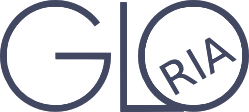
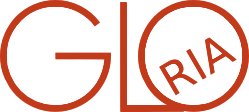
Change colors

Changed region(s): [[0.4779, 0.0, 1.0, 1.0], [0.0, 0.0, 0.4498, 1.0], [0.6185, 0.5089, 0.8153, 0.8571]]

diff --git a/css/freelancer.min.css b/css/freelancer.min.css
@@ -2,4 +2,4 @@
  * Start Bootstrap - Freelancer v3.3.7+1 (http://startbootstrap.com/template-overviews/freelancer)
  * Copyright 2013-2017 Start Bootstrap
  * Licensed under MIT (https://github.com/BlackrockDigital/startbootstrap/blob/gh-pages/LICENSE)
- */body{font-family:Lato,'Helvetica Neue',Helvetica,Arial,sans-serif;overflow-x:hidden}body,html{height:100%}.parallax{background-image:url(/img/about_glo.jpg);height:40%;background-attachment:fixed;background-position:center;background-repeat:no-repeat;background-size:cover}.about_me{position:relative;left:0;top:30%;width:100%;text-align:center}p{font-size:20px}p.small{font-size:16px}a,a.active,a:active,a:focus,a:hover{color:#d9984a}h1,h2,h3,h4,h5,h6{font-family:Montserrat,"Helvetica Neue",Helvetica,Arial,sans-serif;text-transform:uppercase;font-weight:700}hr.star-light,hr.star-primary{padding:0;border:none;border-top:solid 5px;text-align:center;max-width:250px;margin:25px auto 30px}hr.star-light:after,hr.star-primary:after{content:"\f005";font-family:FontAwesome;display:inline-block;position:relative;top:-.8em;font-size:2em;padding:0 .25em}hr.star-light{border-color:#fff}hr.star-light:after{background-color:#d9984a;color:#fff}hr.star-primary{border-color:#424862}hr.star-primary:after{background-color:#fff;color:#424862}.img-centered{margin:0 auto}header{text-align:center;background:#d9984a;color:#fff}header .container{padding-top:100px;padding-bottom:50px}header img{display:block;margin:0 auto 20px}header .intro-text .name{display:block;font-family:Montserrat,"Helvetica Neue",Helvetica,Arial,sans-serif;text-transform:uppercase;font-weight:700;font-size:2em}header .intro-text .skills{font-size:1.25em;font-weight:300}@media (min-width:768px){header .container{padding-top:200px;padding-bottom:100px}header .intro-text .name{font-size:4.75em}header .intro-text .skills{font-size:1.75em}}.navbar-custom{background:#424862;font-family:Montserrat,"Helvetica Neue",Helvetica,Arial,sans-serif;text-transform:uppercase;font-weight:700;border:none}.navbar-custom .navbar-brand{color:#fff}.navbar-custom .navbar-brand.active,.navbar-custom .navbar-brand:active,.navbar-custom .navbar-brand:focus,.navbar-custom .navbar-brand:hover{color:#fff}.navbar-custom .navbar-brand img{height:130%}.navbar-custom .navbar-nav{letter-spacing:1px}.navbar-custom .navbar-nav li a{color:#fff}.navbar-custom .navbar-nav li a:hover{color:#d9984a}.navbar-custom .navbar-nav li a:active,.navbar-custom .navbar-nav li a:focus{color:#fff}.navbar-custom .navbar-nav li.active a{color:#fff;background:#d9984a}.navbar-custom .navbar-nav li.active a:active,.navbar-custom .navbar-nav li.active a:focus,.navbar-custom .navbar-nav li.active a:hover{color:#fff;background:#d9984a}.navbar-custom .navbar-toggle{color:#fff;text-transform:uppercase;font-size:10px;border-color:#fff}.navbar-custom .navbar-toggle:focus,.navbar-custom .navbar-toggle:hover{background-color:#d9984a;color:#fff;border-color:#d9984a}@media (min-width:768px){.navbar-custom{padding:25px 0;-webkit-transition:padding .3s;-moz-transition:padding .3s;transition:padding .3s}.navbar-custom .navbar-brand{font-size:2em;-webkit-transition:all .3s;-moz-transition:all .3s;transition:all .3s}.navbar-custom.affix{padding:10px 0}.navbar-custom.affix .navbar-brand{font-size:1.5em}}section{padding:100px 0}section h2{margin:0;font-size:3em}section.success{background:#d9984a;color:#fff}@media (max-width:767px){section{padding:75px 0}section.first{padding-top:75px}}#portfolio .portfolio-item{margin:0 0 15px;right:0}#portfolio .portfolio-item .portfolio-link{display:block;position:relative;max-width:400px;margin:0 auto}#portfolio .portfolio-item .portfolio-link .caption{background:rgba(217,152,74,.9);position:absolute;width:100%;height:100%;opacity:0;transition:all ease .5s;-webkit-transition:all ease .5s;-moz-transition:all ease .5s}#portfolio .portfolio-item .portfolio-link .caption:hover{opacity:1}#portfolio .portfolio-item .portfolio-link .caption .caption-content{position:absolute;width:100%;height:20px;font-size:20px;text-align:center;top:50%;margin-top:-12px;color:#fff}#portfolio .portfolio-item .portfolio-link .caption .caption-content i{margin-top:-12px}#portfolio .portfolio-item .portfolio-link .caption .caption-content h3,#portfolio .portfolio-item .portfolio-link .caption .caption-content h4{margin:0}#portfolio *{z-index:2}@media (min-width:767px){#portfolio .portfolio-item{margin:0 0 30px}}.floating-label-form-group{position:relative;margin-bottom:0;padding-bottom:.5em;border-bottom:1px solid #eee}.floating-label-form-group input,.floating-label-form-group textarea{z-index:1;position:relative;padding-right:0;padding-left:0;border:none;border-radius:0;font-size:1.5em;background:0 0;box-shadow:none!important;resize:none}.floating-label-form-group label{display:block;z-index:0;position:relative;top:2em;margin:0;font-size:.85em;line-height:1.764705882em;vertical-align:middle;vertical-align:baseline;opacity:0;-webkit-transition:top .3s ease,opacity .3s ease;-moz-transition:top .3s ease,opacity .3s ease;-ms-transition:top .3s ease,opacity .3s ease;transition:top .3s ease,opacity .3s ease}.floating-label-form-group:not(:first-child){padding-left:14px;border-left:1px solid #eee}.floating-label-form-group-with-value label{top:0;opacity:1}.floating-label-form-group-with-focus label{color:#d9984a}form .row:first-child .floating-label-form-group{border-top:1px solid #eee}footer{color:#fff}footer h3{margin-bottom:30px}footer .footer-above{padding-top:50px;background-color:#424862}footer .footer-col{margin-bottom:50px}footer .footer-below{padding:25px 0;background-color:#383d53}.btn-outline{color:#fff;font-size:20px;border:solid 2px #fff;background:0 0;transition:all .3s ease-in-out;margin-top:15px}.btn-outline.active,.btn-outline:active,.btn-outline:focus,.btn-outline:hover{color:#d9984a;background:#fff;border:solid 2px #fff}.btn-primary{color:#fff;background-color:#424862;border-color:#424862;font-weight:700}.btn-primary.active,.btn-primary:active,.btn-primary:focus,.btn-primary:hover,.open .dropdown-toggle.btn-primary{color:#fff;background-color:#2d3244;border-color:#292d3d}.btn-primary.active,.btn-primary:active,.open .dropdown-toggle.btn-primary{background-image:none}.btn-primary.disabled,.btn-primary.disabled.active,.btn-primary.disabled:active,.btn-primary.disabled:focus,.btn-primary.disabled:hover,.btn-primary[disabled],.btn-primary[disabled].active,.btn-primary[disabled]:active,.btn-primary[disabled]:focus,.btn-primary[disabled]:hover,fieldset[disabled] .btn-primary,fieldset[disabled] .btn-primary.active,fieldset[disabled] .btn-primary:active,fieldset[disabled] .btn-primary:focus,fieldset[disabled] .btn-primary:hover{background-color:#424862;border-color:#424862}.btn-primary .badge{color:#424862;background-color:#fff}.btn-success{color:#fff;background-color:#d9984a;border-color:#d9984a;font-weight:700}.btn-success.active,.btn-success:active,.btn-success:focus,.btn-success:hover,.open .dropdown-toggle.btn-success{color:#fff;background-color:#c67f2a;border-color:#be7a28}.btn-success.active,.btn-success:active,.open .dropdown-toggle.btn-success{background-image:none}.btn-success.disabled,.btn-success.disabled.active,.btn-success.disabled:active,.btn-success.disabled:focus,.btn-success.disabled:hover,.btn-success[disabled],.btn-success[disabled].active,.btn-success[disabled]:active,.btn-success[disabled]:focus,.btn-success[disabled]:hover,fieldset[disabled] .btn-success,fieldset[disabled] .btn-success.active,fieldset[disabled] .btn-success:active,fieldset[disabled] .btn-success:focus,fieldset[disabled] .btn-success:hover{background-color:#d9984a;border-color:#d9984a}.btn-success .badge{color:#d9984a;background-color:#fff}.btn-social{display:inline-block;height:50px;width:50px;border:2px solid #fff;border-radius:100%;text-align:center;font-size:20px;line-height:45px}.scroll-top{position:fixed;right:2%;bottom:2%;width:50px;height:50px;z-index:1049}.scroll-top .btn{font-size:20px;width:50px;height:50px;border-radius:100%;line-height:28px}.portfolio-modal .modal-content{border-radius:0;background-clip:border-box;-webkit-box-shadow:none;box-shadow:none;border:none;min-height:100%;padding:100px 0;text-align:center}.portfolio-modal .modal-content h2{margin:0;font-size:3em}.portfolio-modal .modal-content img{margin-bottom:30px}.portfolio-modal .modal-content .item-details{text-align:left;margin:30px 0;font-size:16px}.portfolio-modal .close-modal{position:absolute;width:75px;height:75px;background-color:transparent;top:25px;right:25px;cursor:pointer}.portfolio-modal .close-modal:hover{opacity:.3}.portfolio-modal .close-modal .lr{height:75px;width:1px;margin-left:35px;background-color:#424862;transform:rotate(45deg);-ms-transform:rotate(45deg);-webkit-transform:rotate(45deg);z-index:1051}.portfolio-modal .close-modal .lr .rl{height:75px;width:1px;background-color:#424862;transform:rotate(90deg);-ms-transform:rotate(90deg);-webkit-transform:rotate(90deg);z-index:1052}.portfolio-modal .modal-backdrop{opacity:0;display:none}#skipnav a{padding:6px;position:absolute;top:-40px;left:0;color:#fff;border-right:1px solid #fff;border-bottom:1px solid #fff;border-bottom-right-radius:8px;background:0 0;transition:top 1s ease-out,background 1s linear;z-index:2000}#skipnav a:focus{position:absolute;left:0;top:0;background:#d9984a;outline:0;transition:top .1s ease-in,background .5s linear}div#maincontent{outline:0;padding-top:150px;padding-bottom:60px}
+ */body{font-family:Lato,'Helvetica Neue',Helvetica,Arial,sans-serif;overflow-x:hidden}body,html{height:100%}.parallax{background-image:url(/img/about_glo.jpg);height:40%;background-attachment:fixed;background-position:center;background-repeat:no-repeat;background-size:cover}.about_me{position:relative;left:0;top:30%;width:100%;text-align:center}p{font-size:20px}p.small{font-size:16px}a,a.active,a:active,a:focus,a:hover{color:#c5baac}h1,h2,h3,h4,h5,h6{font-family:Montserrat,"Helvetica Neue",Helvetica,Arial,sans-serif;text-transform:uppercase;font-weight:700}hr.star-light,hr.star-primary{padding:0;border:none;border-top:solid 5px;text-align:center;max-width:250px;margin:25px auto 30px}hr.star-light:after,hr.star-primary:after{content:"\f005";font-family:FontAwesome;display:inline-block;position:relative;top:-.8em;font-size:2em;padding:0 .25em}hr.star-light{border-color:#fff}hr.star-light:after{background-color:#c5baac;color:#fff}hr.star-primary{border-color:#c33a1a}hr.star-primary:after{background-color:#fff;color:#c33a1a}.img-centered{margin:0 auto}header{text-align:center;background:#c5baac;color:#fff}header .container{padding-top:100px;padding-bottom:50px}header img{display:block;margin:0 auto 20px}header .intro-text .name{display:block;font-family:Montserrat,"Helvetica Neue",Helvetica,Arial,sans-serif;text-transform:uppercase;font-weight:700;font-size:2em}header .intro-text .skills{font-size:1.25em;font-weight:300}@media (min-width:768px){header .container{padding-top:200px;padding-bottom:100px}header .intro-text .name{font-size:4.75em}header .intro-text .skills{font-size:1.75em}}.navbar-custom{background:#c33a1a;font-family:Montserrat,"Helvetica Neue",Helvetica,Arial,sans-serif;text-transform:uppercase;font-weight:700;border:none}.navbar-custom .navbar-brand{color:#fff}.navbar-custom .navbar-brand.active,.navbar-custom .navbar-brand:active,.navbar-custom .navbar-brand:focus,.navbar-custom .navbar-brand:hover{color:#fff}.navbar-custom .navbar-brand img{height:130%}.navbar-custom .navbar-nav{letter-spacing:1px}.navbar-custom .navbar-nav li a{color:#fff}.navbar-custom .navbar-nav li a:hover{color:#c5baac}.navbar-custom .navbar-nav li a:active,.navbar-custom .navbar-nav li a:focus{color:#fff}.navbar-custom .navbar-nav li.active a{color:#fff;background:#c5baac}.navbar-custom .navbar-nav li.active a:active,.navbar-custom .navbar-nav li.active a:focus,.navbar-custom .navbar-nav li.active a:hover{color:#fff;background:#c5baac}.navbar-custom .navbar-toggle{color:#fff;text-transform:uppercase;font-size:10px;border-color:#fff}.navbar-custom .navbar-toggle:focus,.navbar-custom .navbar-toggle:hover{background-color:#c5baac;color:#fff;border-color:#c5baac}@media (min-width:768px){.navbar-custom{padding:25px 0;-webkit-transition:padding .3s;-moz-transition:padding .3s;transition:padding .3s}.navbar-custom .navbar-brand{font-size:2em;-webkit-transition:all .3s;-moz-transition:all .3s;transition:all .3s}.navbar-custom.affix{padding:10px 0}.navbar-custom.affix .navbar-brand{font-size:1.5em}}section{padding:100px 0}section h2{margin:0;font-size:3em}section.success{background:#c5baac;color:#fff}@media (max-width:767px){section{padding:75px 0}section.first{padding-top:75px}}#portfolio .portfolio-item{margin:0 0 15px;right:0}#portfolio .portfolio-item .portfolio-link{display:block;position:relative;max-width:400px;margin:0 auto}#portfolio .portfolio-item .portfolio-link .caption{background:rgba(197,186,172,.9);position:absolute;width:100%;height:100%;opacity:0;transition:all ease .5s;-webkit-transition:all ease .5s;-moz-transition:all ease .5s}#portfolio .portfolio-item .portfolio-link .caption:hover{opacity:1}#portfolio .portfolio-item .portfolio-link .caption .caption-content{position:absolute;width:100%;height:20px;font-size:20px;text-align:center;top:50%;margin-top:-12px;color:#fff}#portfolio .portfolio-item .portfolio-link .caption .caption-content i{margin-top:-12px}#portfolio .portfolio-item .portfolio-link .caption .caption-content h3,#portfolio .portfolio-item .portfolio-link .caption .caption-content h4{margin:0}#portfolio *{z-index:2}@media (min-width:767px){#portfolio .portfolio-item{margin:0 0 30px}}.floating-label-form-group{position:relative;margin-bottom:0;padding-bottom:.5em;border-bottom:1px solid #eee}.floating-label-form-group input,.floating-label-form-group textarea{z-index:1;position:relative;padding-right:0;padding-left:0;border:none;border-radius:0;font-size:1.5em;background:0 0;box-shadow:none!important;resize:none}.floating-label-form-group label{display:block;z-index:0;position:relative;top:2em;margin:0;font-size:.85em;line-height:1.764705882em;vertical-align:middle;vertical-align:baseline;opacity:0;-webkit-transition:top .3s ease,opacity .3s ease;-moz-transition:top .3s ease,opacity .3s ease;-ms-transition:top .3s ease,opacity .3s ease;transition:top .3s ease,opacity .3s ease}.floating-label-form-group:not(:first-child){padding-left:14px;border-left:1px solid #eee}.floating-label-form-group-with-value label{top:0;opacity:1}.floating-label-form-group-with-focus label{color:#c5baac}form .row:first-child .floating-label-form-group{border-top:1px solid #eee}footer{color:#fff}footer h3{margin-bottom:30px}footer .footer-above{padding-top:50px;background-color:#c33a1a}footer .footer-col{margin-bottom:50px}footer .footer-below{padding:25px 0;background-color:#ac3317}.btn-outline{color:#fff;font-size:20px;border:solid 2px #fff;background:0 0;transition:all .3s ease-in-out;margin-top:15px}.btn-outline.active,.btn-outline:active,.btn-outline:focus,.btn-outline:hover{color:#c5baac;background:#fff;border:solid 2px #fff}.btn-primary{color:#fff;background-color:#c33a1a;border-color:#c33a1a;font-weight:700}.btn-primary.active,.btn-primary:active,.btn-primary:focus,.btn-primary:hover,.open .dropdown-toggle.btn-primary{color:#fff;background-color:#962d14;border-color:#8d2a13}.btn-primary.active,.btn-primary:active,.open .dropdown-toggle.btn-primary{background-image:none}.btn-primary.disabled,.btn-primary.disabled.active,.btn-primary.disabled:active,.btn-primary.disabled:focus,.btn-primary.disabled:hover,.btn-primary[disabled],.btn-primary[disabled].active,.btn-primary[disabled]:active,.btn-primary[disabled]:focus,.btn-primary[disabled]:hover,fieldset[disabled] .btn-primary,fieldset[disabled] .btn-primary.active,fieldset[disabled] .btn-primary:active,fieldset[disabled] .btn-primary:focus,fieldset[disabled] .btn-primary:hover{background-color:#c33a1a;border-color:#c33a1a}.btn-primary .badge{color:#c33a1a;background-color:#fff}.btn-success{color:#fff;background-color:#c5baac;border-color:#c5baac;font-weight:700}.btn-success.active,.btn-success:active,.btn-success:focus,.btn-success:hover,.open .dropdown-toggle.btn-success{color:#fff;background-color:#b0a18e;border-color:#ac9c88}.btn-success.active,.btn-success:active,.open .dropdown-toggle.btn-success{background-image:none}.btn-success.disabled,.btn-success.disabled.active,.btn-success.disabled:active,.btn-success.disabled:focus,.btn-success.disabled:hover,.btn-success[disabled],.btn-success[disabled].active,.btn-success[disabled]:active,.btn-success[disabled]:focus,.btn-success[disabled]:hover,fieldset[disabled] .btn-success,fieldset[disabled] .btn-success.active,fieldset[disabled] .btn-success:active,fieldset[disabled] .btn-success:focus,fieldset[disabled] .btn-success:hover{background-color:#c5baac;border-color:#c5baac}.btn-success .badge{color:#c5baac;background-color:#fff}.btn-social{display:inline-block;height:50px;width:50px;border:2px solid #fff;border-radius:100%;text-align:center;font-size:20px;line-height:45px}.scroll-top{position:fixed;right:2%;bottom:2%;width:50px;height:50px;z-index:1049}.scroll-top .btn{font-size:20px;width:50px;height:50px;border-radius:100%;line-height:28px}.portfolio-modal .modal-content{border-radius:0;background-clip:border-box;-webkit-box-shadow:none;box-shadow:none;border:none;min-height:100%;padding:100px 0;text-align:center}.portfolio-modal .modal-content h2{margin:0;font-size:3em}.portfolio-modal .modal-content img{margin-bottom:30px}.portfolio-modal .modal-content .item-details{text-align:left;margin:30px 0;font-size:16px}.portfolio-modal .close-modal{position:absolute;width:75px;height:75px;background-color:transparent;top:25px;right:25px;cursor:pointer}.portfolio-modal .close-modal:hover{opacity:.3}.portfolio-modal .close-modal .lr{height:75px;width:1px;margin-left:35px;background-color:#c33a1a;transform:rotate(45deg);-ms-transform:rotate(45deg);-webkit-transform:rotate(45deg);z-index:1051}.portfolio-modal .close-modal .lr .rl{height:75px;width:1px;background-color:#c33a1a;transform:rotate(90deg);-ms-transform:rotate(90deg);-webkit-transform:rotate(90deg);z-index:1052}.portfolio-modal .modal-backdrop{opacity:0;display:none}#skipnav a{padding:6px;position:absolute;top:-40px;left:0;color:#fff;border-right:1px solid #fff;border-bottom:1px solid #fff;border-bottom-right-radius:8px;background:0 0;transition:top 1s ease-out,background 1s linear;z-index:2000}#skipnav a:focus{position:absolute;left:0;top:0;background:#c5baac;outline:0;transition:top .1s ease-in,background .5s linear}div#maincontent{outline:0;padding-top:150px;padding-bottom:60px}

diff --git a/css/freelancer.css b/css/freelancer.css
@@ -40,7 +40,7 @@ a:hover,
 a:focus,
 a:active,
 a.active {
-  color: #D9984A;
+  color: #C5BAAC;
 }
 h1,
 h2,
@@ -75,22 +75,22 @@ hr.star-light {
   border-color: white;
 }
 hr.star-light:after {
-  background-color: #D9984A;
+  background-color: #C5BAAC;
   color: white;
 }
 hr.star-primary {
-  border-color: #424862;
+  border-color: #C33A1A;
 }
 hr.star-primary:after {
   background-color: white;
-  color: #424862;
+  color: #C33A1A;
 }
 .img-centered {
   margin: 0 auto;
 }
 header {
   text-align: center;
-  background: #D9984A;
+  background: #C5BAAC;
   color: white;
 }
 header .container {
@@ -125,7 +125,7 @@ header .intro-text .skills {
   }
 }
 .navbar-custom {
-  background: #424862;
+  background: #C33A1A;
   font-family: "Montserrat", "Helvetica Neue", Helvetica, Arial, sans-serif;
   text-transform: uppercase;
   font-weight: 700;
@@ -150,7 +150,7 @@ header .intro-text .skills {
   color: white;
 }
 .navbar-custom .navbar-nav li a:hover {
-  color: #D9984A;
+  color: #C5BAAC;
 }
 .navbar-custom .navbar-nav li a:focus,
 .navbar-custom .navbar-nav li a:active {
@@ -158,13 +158,13 @@ header .intro-text .skills {
 }
 .navbar-custom .navbar-nav li.active a {
   color: white;
-  background: #D9984A;
+  background: #C5BAAC;
 }
 .navbar-custom .navbar-nav li.active a:hover,
 .navbar-custom .navbar-nav li.active a:focus,
 .navbar-custom .navbar-nav li.active a:active {
   color: white;
-  background: #D9984A;
+  background: #C5BAAC;
 }
 .navbar-custom .navbar-toggle {
   color: white;
@@ -174,9 +174,9 @@ header .intro-text .skills {
 }
 .navbar-custom .navbar-toggle:hover,
 .navbar-custom .navbar-toggle:focus {
-  background-color: #D9984A;
+  background-color: #C5BAAC;
   color: white;
-  border-color: #D9984A;
+  border-color: #C5BAAC;
 }
 @media (min-width: 768px) {
   .navbar-custom {
@@ -206,7 +206,7 @@ section h2 {
   font-size: 3em;
 }
 section.success {
-  background: #D9984A;
+  background: #C5BAAC;
   color: white;
 }
 @media (max-width: 767px) {
@@ -228,7 +228,7 @@ section.success {
   margin: 0 auto;
 }
 #portfolio .portfolio-item .portfolio-link .caption {
-  background: rgba(217, 152, 74, 0.9);
+  background: rgba(197, 186, 172, 0.9);
   position: absolute;
   width: 100%;
   height: 100%;
@@ -309,7 +309,7 @@ section.success {
   opacity: 1;
 }
 .floating-label-form-group-with-focus label {
-  color: #D9984A;
+  color: #C5BAAC;
 }
 form .row:first-child .floating-label-form-group {
   border-top: 1px solid #eeeeee;
@@ -322,14 +322,14 @@ footer h3 {
 }
 footer .footer-above {
   padding-top: 50px;
-  background-color: #424862;
+  background-color: #C33A1A;
 }
 footer .footer-col {
   margin-bottom: 50px;
 }
 footer .footer-below {
   padding: 25px 0;
-  background-color: #383d53;
+  background-color: #ac3317;
 }
 .btn-outline {
   color: white;
@@ -343,14 +343,14 @@ footer .footer-below {
 .btn-outline:focus,
 .btn-outline:active,
 .btn-outline.active {
-  color: #D9984A;
+  color: #C5BAAC;
   background: white;
   border: solid 2px white;
 }
 .btn-primary {
   color: white;
-  background-color: #424862;
-  border-color: #424862;
+  background-color: #C33A1A;
+  border-color: #C33A1A;
   font-weight: 700;
 }
 .btn-primary:hover,
@@ -359,8 +359,8 @@ footer .footer-below {
 .btn-primary.active,
 .open .dropdown-toggle.btn-primary {
   color: white;
-  background-color: #2d3244;
-  border-color: #292d3d;
+  background-color: #962d14;
+  border-color: #8d2a13;
 }
 .btn-primary:active,
 .btn-primary.active,
@@ -382,17 +382,17 @@ fieldset[disabled] .btn-primary:active,
 .btn-primary.disabled.active,
 .btn-primary[disabled].active,
 fieldset[disabled] .btn-primary.active {
-  background-color: #424862;
-  border-color: #424862;
+  background-color: #C33A1A;
+  border-color: #C33A1A;
 }
 .btn-primary .badge {
-  color: #424862;
+  color: #C33A1A;
   background-color: white;
 }
 .btn-success {
   color: white;
-  background-color: #D9984A;
-  border-color: #D9984A;
+  background-color: #C5BAAC;
+  border-color: #C5BAAC;
   font-weight: 700;
 }
 .btn-success:hover,
@@ -401,8 +401,8 @@ fieldset[disabled] .btn-primary.active {
 .btn-success.active,
 .open .dropdown-toggle.btn-success {
   color: white;
-  background-color: #c67f2a;
-  border-color: #be7a28;
+  background-color: #b0a18e;
+  border-color: #ac9c88;
 }
 .btn-success:active,
 .btn-success.active,
@@ -424,11 +424,11 @@ fieldset[disabled] .btn-success:active,
 .btn-success.disabled.active,
 .btn-success[disabled].active,
 fieldset[disabled] .btn-success.active {
-  background-color: #D9984A;
-  border-color: #D9984A;
+  background-color: #C5BAAC;
+  border-color: #C5BAAC;
 }
 .btn-success .badge {
-  color: #D9984A;
+  color: #C5BAAC;
   background-color: white;
 }
 .btn-social {
@@ -494,7 +494,7 @@ fieldset[disabled] .btn-success.active {
   height: 75px;
   width: 1px;
   margin-left: 35px;
-  background-color: #424862;
+  background-color: #C33A1A;
   transform: rotate(45deg);
   -ms-transform: rotate(45deg);
   /* IE 9 */
@@ -505,7 +505,7 @@ fieldset[disabled] .btn-success.active {
 .portfolio-modal .close-modal .lr .rl {
   height: 75px;
   width: 1px;
-  background-color: #424862;
+  background-color: #C33A1A;
   transform: rotate(90deg);
   -ms-transform: rotate(90deg);
   /* IE 9 */
@@ -534,7 +534,7 @@ fieldset[disabled] .btn-success.active {
   position: absolute;
   left: 0px;
   top: 0px;
-  background: #D9984A;
+  background: #C5BAAC;
   outline: 0;
   transition: top 0.1s ease-in, background 0.5s linear;
 }

diff --git a/index.html b/index.html
@@ -142,7 +142,7 @@
                                 <i class="fa fa-search-plus fa-3x"></i>
                             </div>
                         </div>
-                        <img src="img/portfolio/trincea.jpeg" class="img-responsive" alt="Sui campi e in trincea">
+                        <img src="img/portfolio/submarine.png" class="img-responsive" alt="Sui campi e in trincea">
                     </a>
                 </div>
                 <div class="col-sm-4 portfolio-item">
@@ -422,7 +422,7 @@
                         <div class="modal-body">
                             <h2>Project Title</h2>
                             <hr class="star-primary">
-                            <img src="img/portfolio/trincea.jpeg" class="img-responsive img-centered" alt="">
+                            <img src="img/portfolio/submarine.png" class="img-responsive img-centered" alt="">
                             <p>
                               <ul class="list item-details">
                                   <li>Tecnica:

diff --git a/less/variables.less b/less/variables.less
@@ -4,8 +4,8 @@
 //@theme-primary:    #2C3E50;
 //@theme-success:    #F1AD5A;
 
-@theme-primary:    #424862;
-@theme-success:    #D9984A;
+@theme-primary:    #C33A1A; //#424862;
+@theme-success:    #C5BAAC; //#BFB29A; //#D9984A;
 
 @gray-base:        #000;
 @gray-darker:      lighten(@gray-base, 13.5%); // #222
